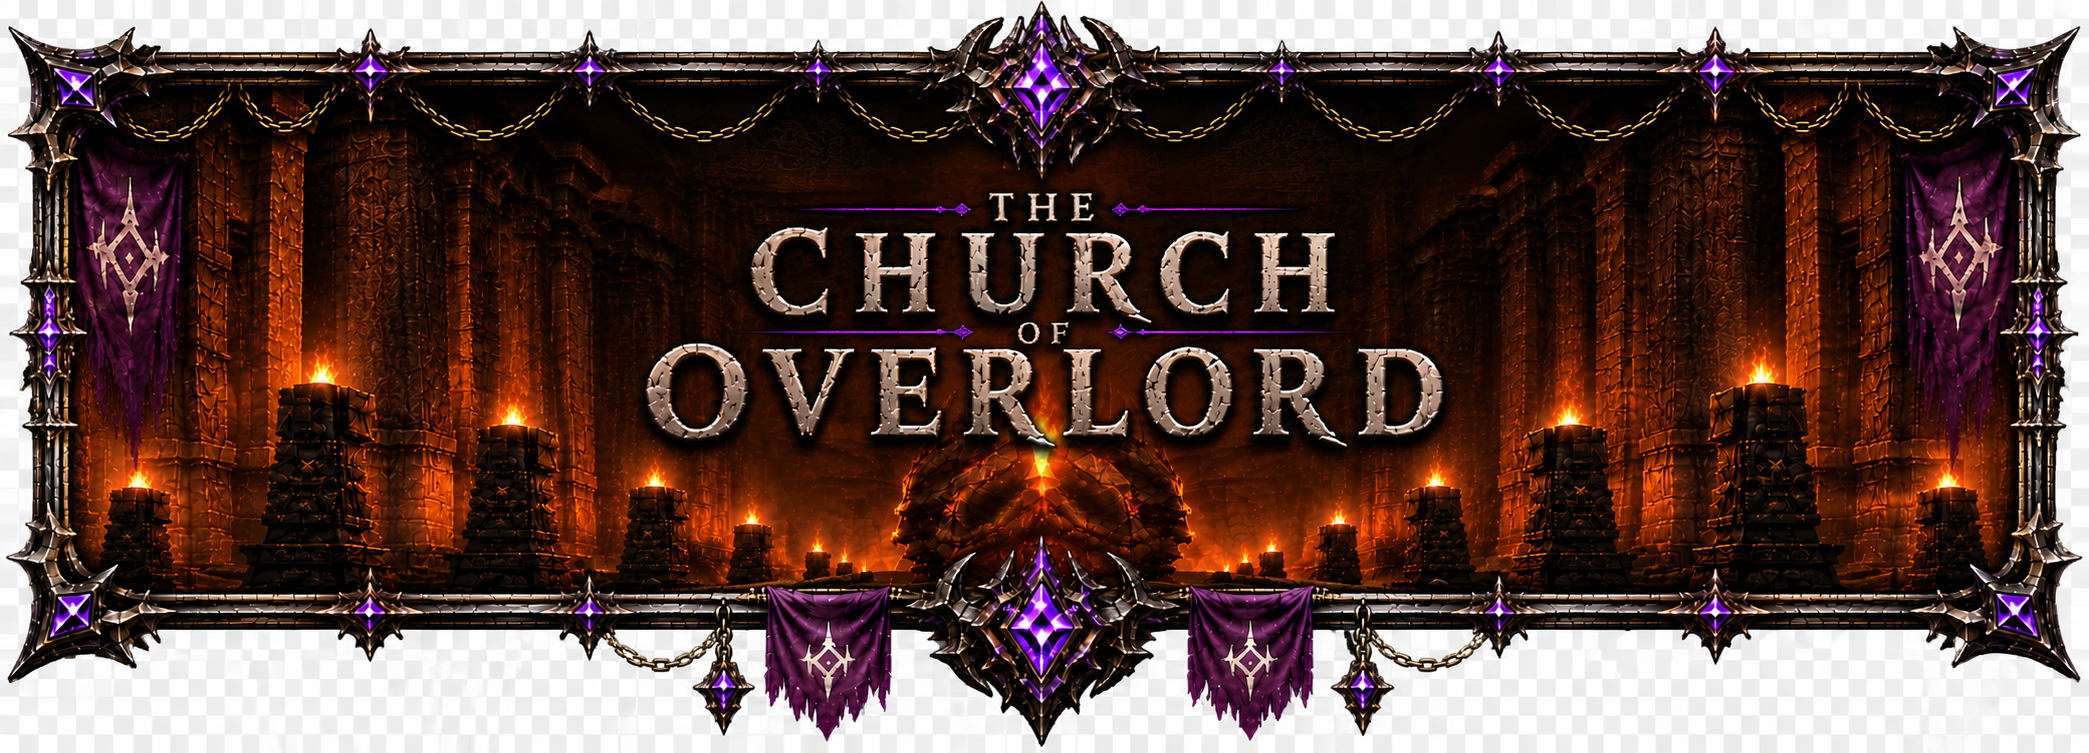
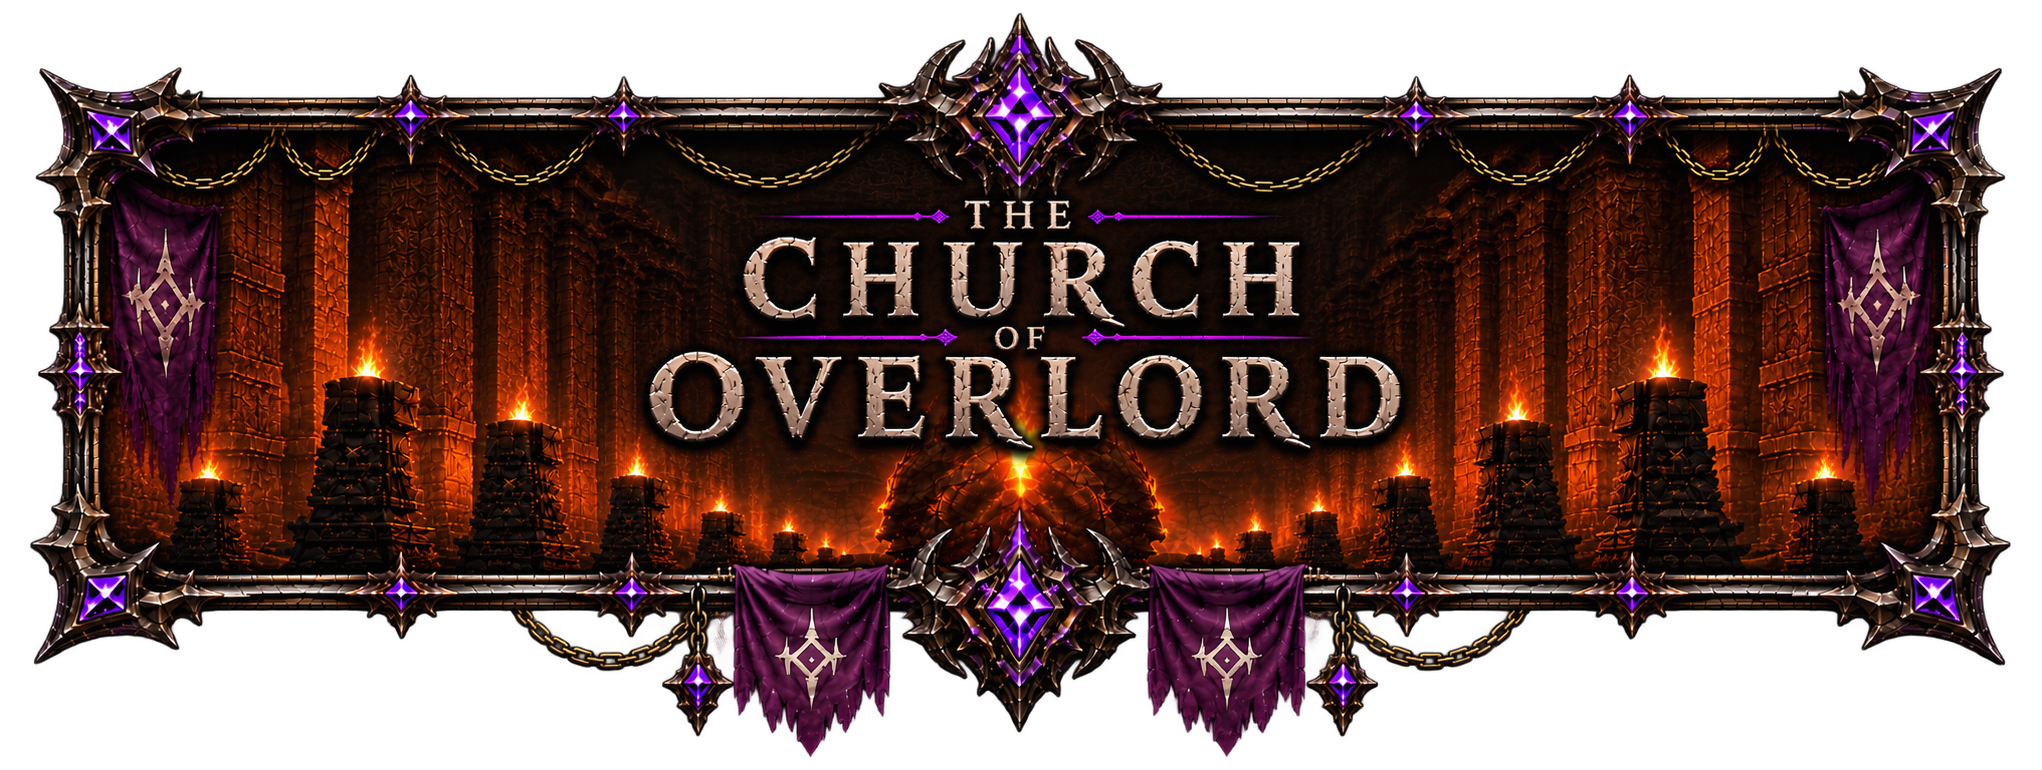
Add files via upload

diff --git a/index.html b/index.html
@@ -1318,55 +1318,6 @@
 }
 </style>
 
-
-<style>
-/* ==========================================================
-   HERO BACKGROUND EXTENSION + 70% BANNER SCALE
-   ========================================================== */
-
-/* Extend the same warm near-black page background behind
-   the transparent areas of the top banner. */
-.hero {
-  background:
-    linear-gradient(
-      180deg,
-      #0c0804 0%,
-      #0b0704 28%,
-      #080504 58%,
-      #050405 82%,
-      #030204 100%
-    ) !important;
-}
-
-/* Reduce the visible banner to 70% of its previous size
-   while preserving its original proportions. */
-.hero-unified-image {
-  display: block !important;
-  width: 70% !important;
-  height: auto !important;
-  max-height: none !important;
-  margin: 0 auto !important;
-  object-fit: contain !important;
-}
-
-/* Keep the blend below the hero continuous with the page. */
-.hero::after {
-  background: linear-gradient(
-    180deg,
-    rgba(12,8,4,.92) 0%,
-    rgba(12,8,4,.58) 45%,
-    rgba(12,8,4,0) 100%
-  ) !important;
-}
-
-/* On small screens keep enough width for the title to remain readable. */
-@media (max-width: 700px) {
-  .hero-unified-image {
-    width: 92% !important;
-  }
-}
-</style>
-
 </head>
 
 <body>
